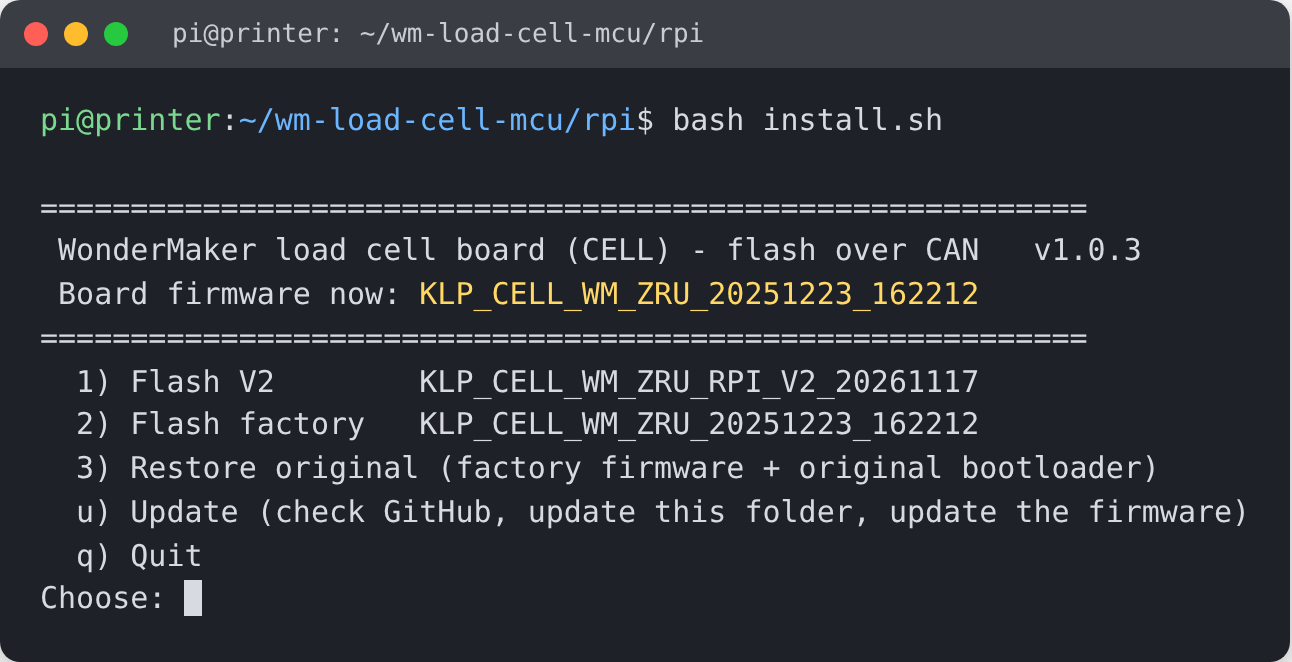
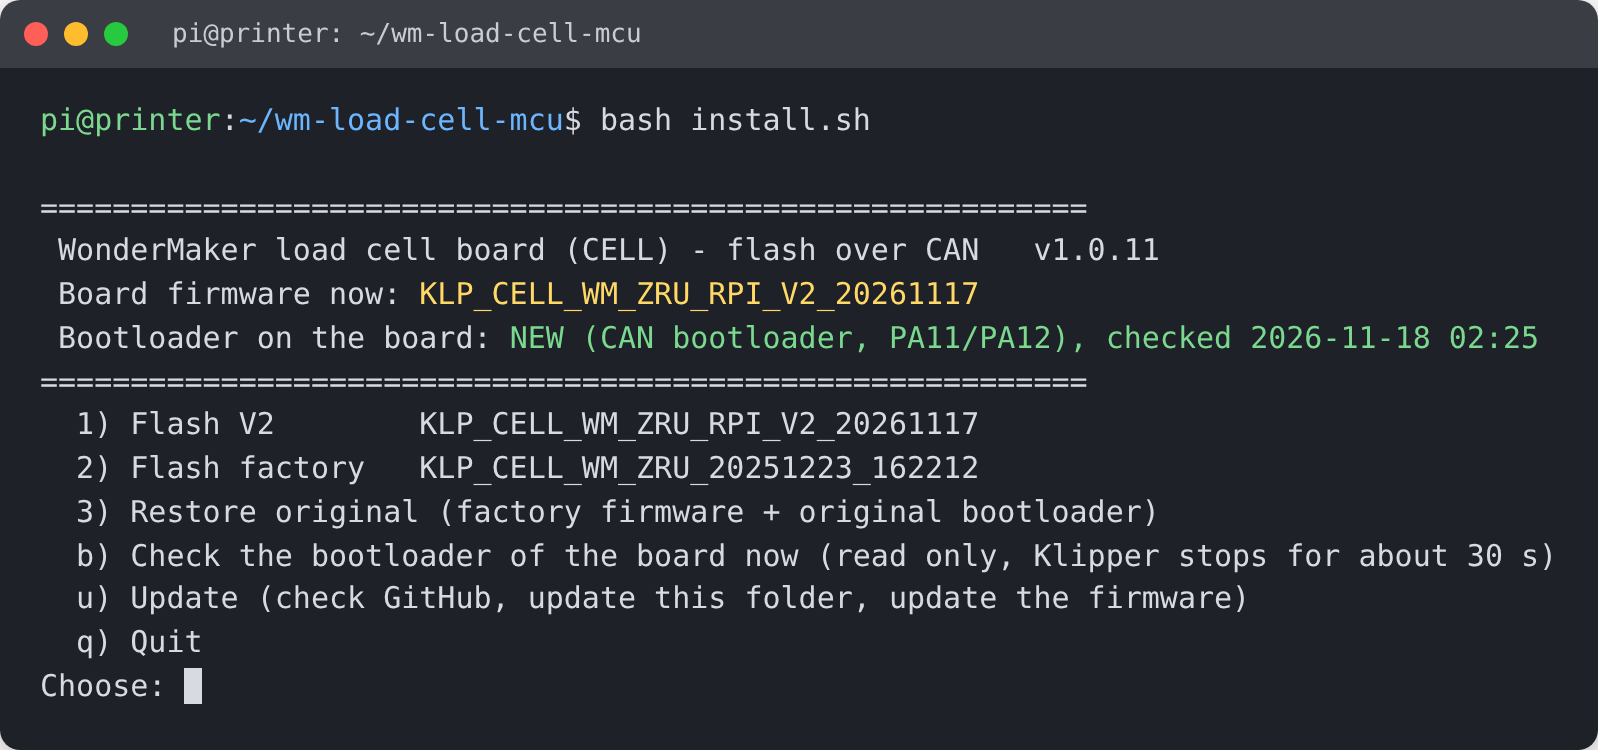
1.0.11: menu shows the bootloader of the board, option b to check it
Claude-Session: https://claude.ai/code/session_0188cJYRY7ZSqCguqTL3TYPE

diff --git a/README.md b/README.md
@@ -1,6 +1,6 @@
 # wm-load-cell-mcu
 
-![version](https://img.shields.io/badge/version-1.0.10-blue) ![licence](https://img.shields.io/badge/licence-GPLv3-green) ![board](https://img.shields.io/badge/printers-ZR%20Ultra--S%20%7C%20ZR%20Ultra-orange)
+![version](https://img.shields.io/badge/version-1.0.11-blue) ![licence](https://img.shields.io/badge/licence-GPLv3-green) ![board](https://img.shields.io/badge/printers-ZR%20Ultra--S%20%7C%20ZR%20Ultra-orange)
 
 Firmware and flash tools for the **load cell board (CELL)** of the **WonderMaker ZR Ultra-S** and the **WonderMaker ZR Ultra**.
 
@@ -9,7 +9,7 @@ Firmware and flash tools for the **load cell board (CELL)** of the **WonderMaker
 - Flash the patched firmware **V2**, or go back to the **original factory firmware**, over CAN.
 - **No SWD programmer, no Pico, no ST-Link, no wires, no soldering.** Everything runs from the printer's Raspberry Pi over the normal CAN cable.
 
-**Version 1.0.10** (2026-11-18). See [`VERSION`](VERSION) and [`CHANGELOG.md`](CHANGELOG.md). Credit: ducati1198.
+**Version 1.0.11** (2026-11-18). See [`VERSION`](VERSION) and [`CHANGELOG.md`](CHANGELOG.md). Credit: ducati1198.
 
 > ## ⚠ Warning: read this first
 >
@@ -142,6 +142,8 @@ bash install.sh
 ## Update the repo (it is already on your Pi)
 
 **The easy way:** run `bash install.sh` and type `u`. It checks the version on GitHub, updates this folder (`git pull`, or a fresh download if you did not use git) and then offers the newest firmware if the board does not run it yet. If a newer version is on GitHub, the menu header says so.
+
+The menu header also shows which **bootloader** is on the board (NEW or FACTORY) and when it was checked. Type `b` to check it now (read only, Klipper stops for about 30 seconds).
 
 ![Example: the update section of install.sh](docs/update.png)
 

diff --git a/CHANGELOG.md b/CHANGELOG.md
@@ -1,5 +1,9 @@
 # Changelog
 
+## 1.0.11 - 2026-11-18
+- The menu header shows which bootloader is on the board (NEW or FACTORY, with the time it was checked). It is remembered in `.bootloader-state` after every check, install and restore.
+- New menu option `b`: check the bootloader now (read only; Klipper stops for about 30 s). Also `2_flash_app_can.sh --check`.
+
 ## 1.0.10 - 2026-11-18
 - The confirmation question now reads `(yes/no) [no]`: pressing Enter, or anything except yes or y, means no and nothing is changed.
 
